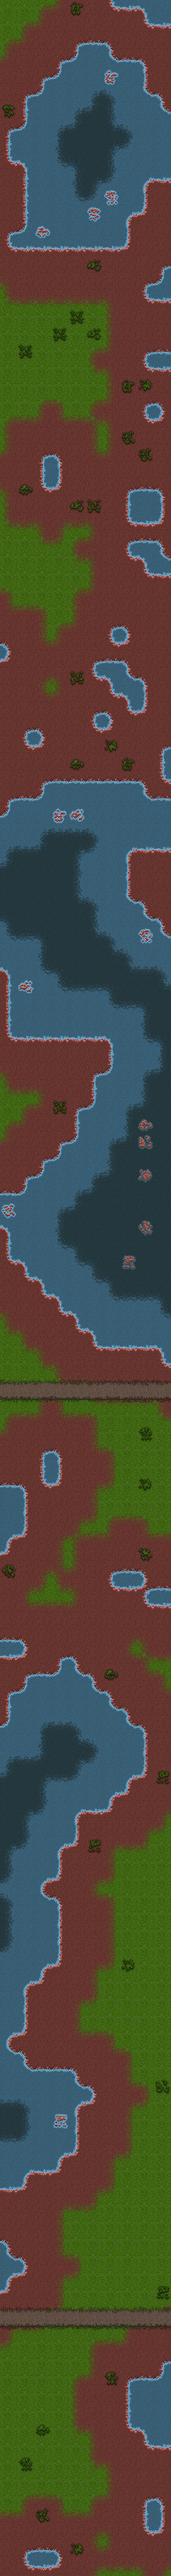
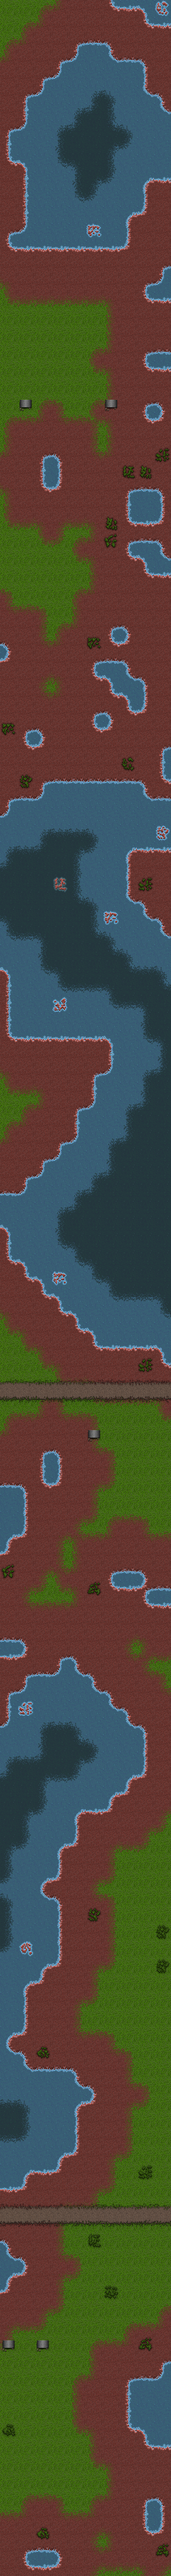
Add files via upload

diff --git a/MergeOverlayBackgroundTexture.m b/MergeOverlayBackgroundTexture.m
@@ -1,0 +1,25 @@
+% merge textures based on alpha channel
+%vBackgroundTexture = imread('Ptrn1.png');
+%[vOverlay,vMap,vAlpha] = imread('ChemicalPlant.png');
+% repeat background texture to fit size of vOverlay
+%if size(vBackgroundTexture,1) ~= size(vBackgroundTexture,2)
+%  error('Background texture needs to be quadratic.');
+%end
+%[nA,nB,~] = size(vOverlay);
+%nP = size(vBackgroundTexture,1);
+%nA = nA/nP;
+%nB = nB/nP;
+%if (rem(nA,1) ~= 0) | (rem(nB,1) ~= 0)
+%  error('overlay texture needs to be multiples of background texture.');
+%end
+function vMerged = MergeOverlayBackgroundTexture(vBackground, vOverlay, vAlpha)
+%vBackground = repmat(vBackgroundTexture,[nA,nB]);
+vMerged = im2double(vBackground);
+vOverlay = im2double(vOverlay);
+vAlpha = im2double(vAlpha);
+vBackground = im2double(vBackground);
+vMerged(:,:,1) = vAlpha .* vOverlay(:,:,1) + (1-vAlpha) .* vBackground(:,:,1);
+vMerged(:,:,2) = vAlpha .* vOverlay(:,:,2) + (1-vAlpha) .* vBackground(:,:,2);
+vMerged(:,:,3) = vAlpha .* vOverlay(:,:,3) + (1-vAlpha) .* vBackground(:,:,3);
+vMerged = uint8(vMerged*255);
+%figure; image(uint8(vMerged*255));

diff --git a/MapGenerator.m b/MapGenerator.m
@@ -30,6 +30,8 @@ for iY = 1:(size(imBW,1)-6)
   end
 end
 
+[vHut,vMap,vAlpha] = imread('./Assets/Hut2.png');
+
 %figure;imagesc(imBW);axis image;
 
 % generate high ground
@@ -105,6 +107,10 @@ for iH = 0:(size(map1_,2)-1)
     if map3_(iW+1,iH+1) > 1
       if (iMap3 == 16) && (rand < 0.05)
         map_image(iW*32+1:(iW+1)*32,iH*32+1:(iH+1)*32,:) = CreateTrees(imread('.\Ptrn4.png'),vTGras{iMap3});
+      elseif (rand < 0.01)
+        % add a hut to the land
+        vMerged = MergeOverlayBackgroundTexture(vTGras{iMap3}, vHut, vAlpha);
+        map_image(iW*32+1:(iW+1)*32,iH*32+1:(iH+1)*32,:) = vMerged;
       else
         map_image(iW*32+1:(iW+1)*32,iH*32+1:(iH+1)*32,:) = vTGras{iMap3};%;map(iW+1,iH+1)*ones(32,32);
       end
@@ -138,5 +144,5 @@ end
 %figure;image(map_image_water); axis image;
 %figure;image(map_image_gras); axis image;
 figure;image(map_image); axis image;
-%imwrite(map_image_land,'test.png');
+%imwrite(map_image,'map.png');
 
